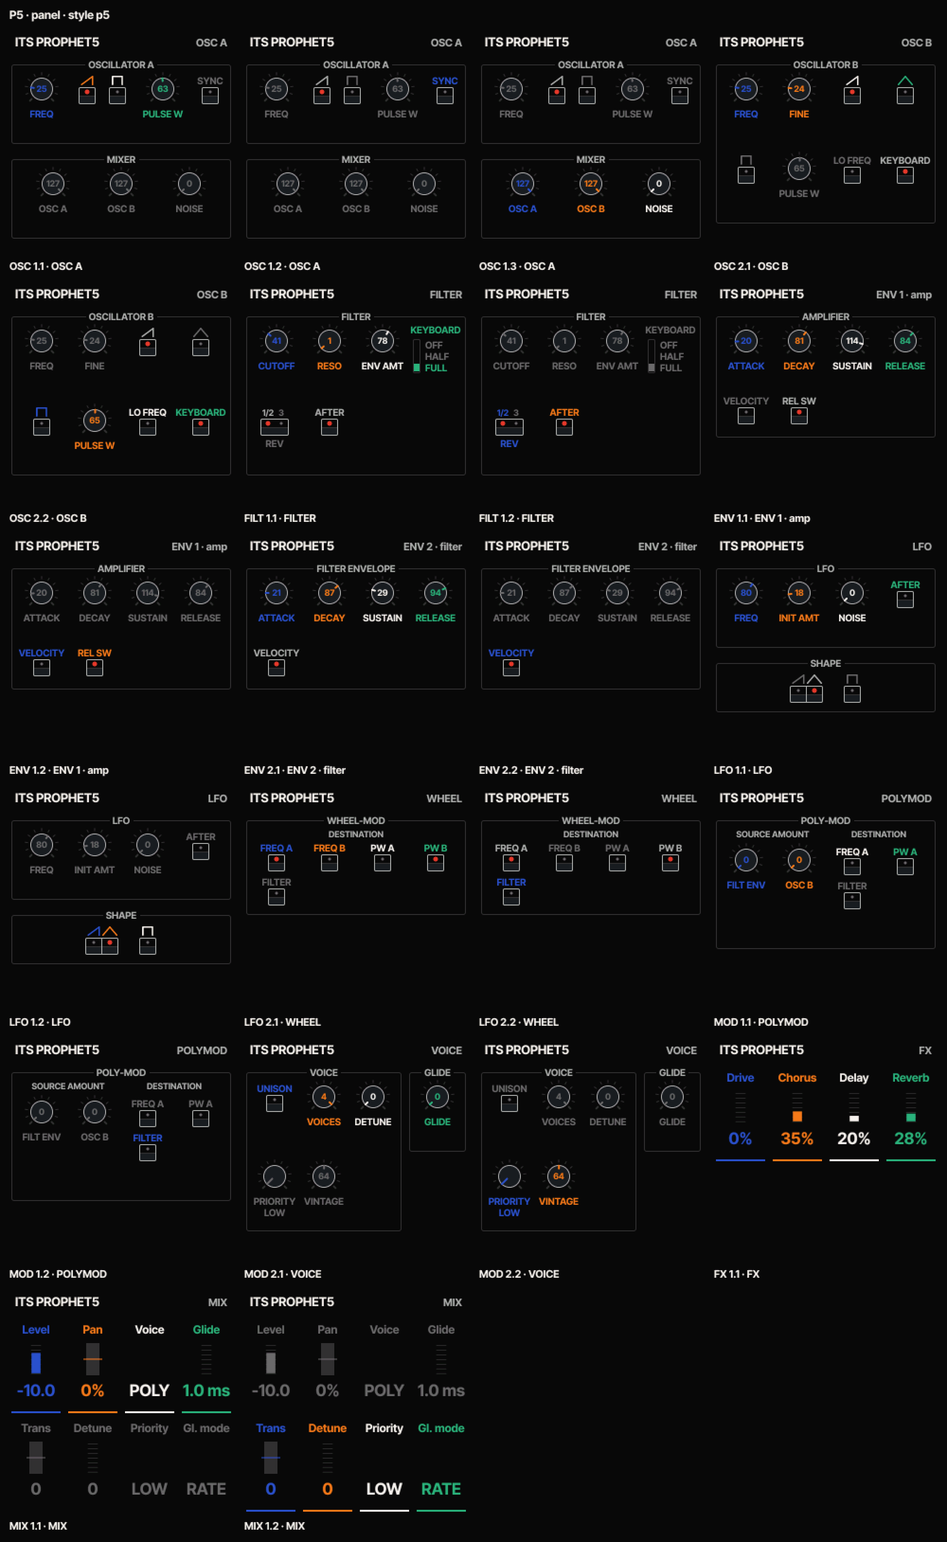
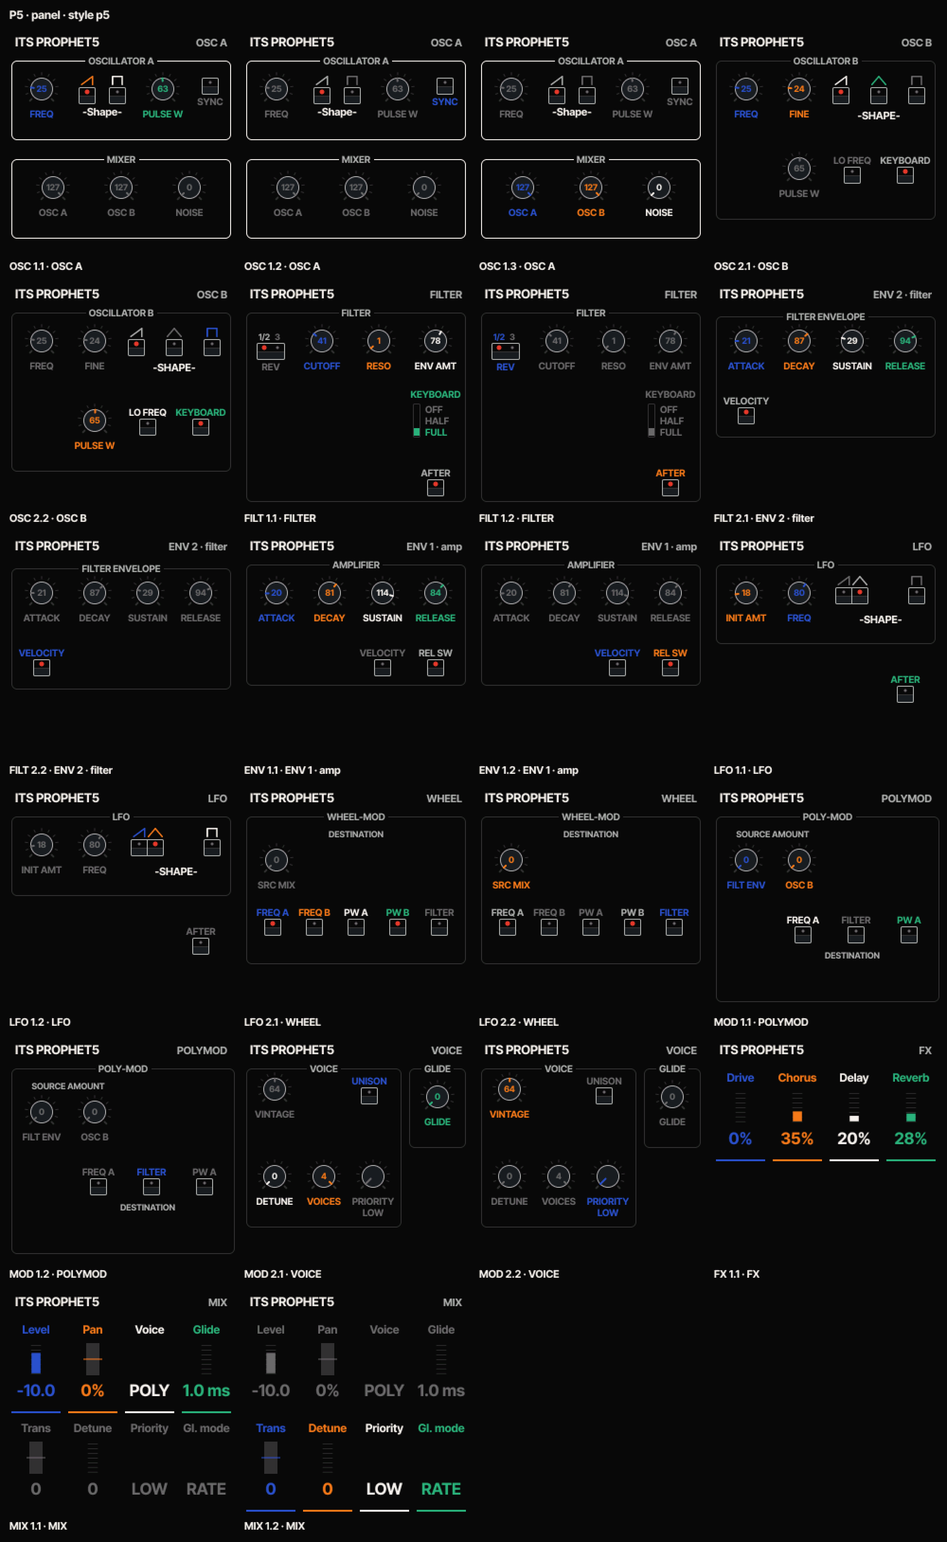
Layout tool: the owner's P5 panel layout; copy / paste between screens, a led's label above or below, frame corners, the wheel-mod source mix
The owner laid the nine screens out himself in the page (ENV 2 under FILT, his frames and labels, VOICE his way);
his design is the file now. He asked: "I need a way to copy/paste elements between pages. Also for buttons like SYNC
on OSC A I need a way to change the label between above(like it is now) and below(How I want it). The prophet's
panel also has rounded edges on it's frames, so I'd like an option to be able to do that too to match. Wheel Mod
also has an option on real prophet for source mix which I added but didn't see a parameter for." Ctrl+C / Ctrl+V
(and copy / paste buttons) carry selected elements to another screen with fresh ids, in no lane, one undo step;
"labelAt": "below" on a led puts its label under the cap (SYNC); "r" 0..12 on a frame (his frames at 6); the source
mix is the engine's LFO:NOISE (the LFO-to-noise mix of the wheel): his SRC MIX knob on WHEEL is bound to it, the LFO
screen's NOISE knob dropped, and the palette says "wheel-mod source mix". The LFO saw / tri pair rejoined (he had
pulled it apart). Lint clean, all 56 parameters once; the sheet rendered again; no firmware file changed.

diff --git a/web/fm1layout.js b/web/fm1layout.js
@@ -295,6 +295,9 @@ export function paramList(cat) {
   return out;
 }
 export const paramIndex = (params) => new Map(params.map((p) => [p.id, p]));
+// what a parameter is on the original instrument when its id does not say (the designer's palette: its search and
+// its second line only)
+export const PARAM_HINTS = { "LFO:NOISE": "wheel-mod source mix" };
 const addrKey = (page, col) => `${page}.${col}`;
 
 // ------------------------------------------------------------ new designs ---
@@ -346,6 +349,24 @@ export function newElement(screen, type, x, y, param = null, style = "flat") {
   return e;
 }
 export const snap = (v) => Math.round(v / GRID) * GRID;
+// copy and paste between screens: elements (copies) onto a screen at their own places, with fresh ids, in no lane; an
+// element that would land exactly on an identical box moves 8 px right and down (again, until free). -> the new elements
+export function pasteElements(screen, clip) {
+  const made = [];
+  let n = screen.elements.length + 1;
+  for (const o of clip) {
+    const e = JSON.parse(JSON.stringify(o));
+    while (screen.elements.some((x) => x.id === `e${n}`)) n++;
+    e.id = `e${n++}`;
+    for (let k = 0; k < 30 && screen.elements.some((x) => x.x === e.x && x.y === e.y && x.w === e.w && x.h === e.h); k++) {
+      e.x = Math.min(e.x + 8, SCREEN - e.w);
+      e.y = Math.min(e.y + 8, SCREEN - e.h);
+    }
+    screen.elements.push(e);
+    made.push(e);
+  }
+  return made;
+}
 
 // ---------------------------------------------------------- the design file ---
 export const formatDesign = (d) => formatLayout(d);
@@ -404,6 +425,8 @@ export function validateDesign(d, cat) {
         if (["x", "y", "w", "h"].some((k) => Number.isInteger(e[k]) && e[k] % GRID)) warn(`${et}: not on the ${GRID} px grid`);
         if (BINDABLE.has(e.type) && e.param !== null && e.param !== undefined && !pidx.has(e.param)) err(`${et}: no parameter "${e.param}"`);
         if (e.type === "switch" && ![2, 3].includes(e.positions)) err(`${et}: a switch has 2 or 3 positions`);
+        if (e.type === "led" && e.labelAt !== undefined && e.labelAt !== "above" && e.labelAt !== "below") err(`${et}: "labelAt" is "above" or "below"`);
+        if (e.type === "frame" && e.r !== undefined && !(Number.isInteger(e.r) && e.r >= 0 && e.r <= 12)) err(`${et}: a frame's corner radius "r" is 0 .. 12`);
         if (e.type === "led" && e.leds !== undefined && ![1, 2].includes(e.leds)) err(`${et}: "leds" is 1 or 2`);
         if (e.type === "led" && e.leds === 2) {
           const lp = pidx.get(e.param);
@@ -570,7 +593,7 @@ export function freeOps(screen, params, value, opts = {}) {
     if (opts.style === "p5" && p5Op(ops, e, { p, val, col, lab, cx, hot, measure, lit: at.get(e.id) && at.get(e.id).lane === active })) continue;
     switch (e.type) {
       case "frame": {
-        ops.push({ op: "rect", x: e.x, y: e.y, w: e.w, h: e.h, col: e.colour && e.colour !== "auto" ? COLOURS[e.colour] : LINE, line: 1 });
+        ops.push({ op: "rect", x: e.x, y: e.y, w: e.w, h: e.h, col: e.colour && e.colour !== "auto" ? COLOURS[e.colour] : LINE, r: e.r || 0, line: 1 });
         if (e.text) {
           const tw = measure(e.text, 10, true);
           ops.push({ op: "rect", x: e.x + 4, y: e.y - 5, w: tw + 6, h: 10, col: BG });
@@ -641,7 +664,7 @@ export function freeOps(screen, params, value, opts = {}) {
 function p5Op(ops, e, { p, val, col, lab, cx, hot, measure, lit }) {
   switch (e.type) {
     case "frame": {
-      ops.push({ op: "rect", x: e.x, y: e.y, w: e.w, h: e.h, col: e.colour && e.colour !== "auto" ? COLOURS[e.colour] : LINE, r: 3, line: 1 });
+      ops.push({ op: "rect", x: e.x, y: e.y, w: e.w, h: e.h, col: e.colour && e.colour !== "auto" ? COLOURS[e.colour] : LINE, r: e.r ?? 3, line: 1 });
       if (e.text) {
         const t = e.text.toUpperCase(), tw = Math.min(measure(t, 10, true), e.w - 12);
         ops.push({ op: "rect", x: cx - (tw >> 1) - 3, y: e.y - 5, w: tw + 6, h: 10, col: BG });
@@ -664,9 +687,15 @@ function p5Op(ops, e, { p, val, col, lab, cx, hot, measure, lit }) {
       return true;
     }
     case "led": {
-      const on = p ? val.v > p.min : false, ink = lit ? col : on ? MID : DIM, y = e.y + 12;
-      // the cap under a 2 px gap, 18 high: a black window (the LEDs') over a 1 px line, the pad under it, the rim; sq:
-      // the corners on one side square (lay_draw_rect r + 64 left, + 128 right: a pair's caps meet as one)
+      // a column: the rows over the cap (the icon, the two LEDs' names, the label when it is above: 12 px each), the cap
+      // (2 px under them, or at the cell's top + 2 with none), the label under it when labelAt is "below" (a two-LED
+      // button's label goes under by default: its names are on top)
+      const on = p ? val.v > p.min : false, ink = lit ? col : on ? MID : DIM, two = e.leds === 2;
+      const icon = !two && e.glyph && LED_GLYPHS[e.glyph], below = e.labelAt ? e.labelAt === "below" : two;
+      const labTop = !!lab && !below && !icon;   // (above, an icon takes the label's place)
+      const rows = (labTop ? 1 : 0) + (icon || two ? 1 : 0), y = rows ? e.y + 12 * rows : e.y + 2;
+      // the cap, 18 high: a black window (the LEDs') over a 1 px line, the pad under it, the rim; sq: the corners on one
+      // side square (lay_draw_rect r + 64 left, + 128 right: a pair's caps meet as one)
       const cap = (x, w, sq = 0) => {
         ops.push({ op: "rect", x, y, w, h: 18, col: SURF, r: 2 + sq });
         ops.push({ op: "rect", x: x + 1, y: y + 1, w: w - 2, h: 8, col: COLOURS.black });
@@ -674,22 +703,25 @@ function p5Op(ops, e, { p, val, col, lab, cx, hot, measure, lit }) {
         ops.push({ op: "rect", x, y, w, h: 18, col: MID, r: 2 + sq, line: 1 });
       };
       const led = (x, lit5, c) => ops.push({ op: "disc", cx16: x * 16, cy16: (y + 5) * 16, r16: lit5 ? 40 : 24, col: lit5 ? c : DIM });   // lit 5 px, off 3 px
-      if (e.leds === 2) {   // one parameter of two values: a wide cap, two LEDs (min red, max yellow), the names above them
+      // one LED; a pair's halves sit flush (the left's cap at its cell's right edge, the right's over the shared rim)
+      const cxL = two ? cx : e.pair === "left" ? e.x + e.w - 9 : e.pair === "right" ? e.x + 8 : cx;
+      const labCol = two ? col : ink;
+      if (labTop) ops.push({ op: "text", bold: 1, px: 10, x: cxL, y: e.y + 9, s: lab, col: labCol, align: 1, maxw: e.w - 2 });
+      const top = e.y + (labTop ? 12 : 0);
+      if (two) {   // one parameter of two values: a wide cap, two LEDs (min red, max yellow), the names above them
         const cur = on ? 1 : 0;
         cap(cx - 15, 30);
         [cx - 7, cx + 7].forEach((x, i) => {
-          ops.push({ op: "text", bold: 1, px: 9, x, y: e.y + 9, s: switchName(e, p, 2, i).toUpperCase(), col: i === cur ? (lit ? col : MID) : DIM, align: 1 });
+          ops.push({ op: "text", bold: 1, px: 9, x, y: top + 9, s: switchName(e, p, 2, i).toUpperCase(), col: i === cur ? (lit ? col : MID) : DIM, align: 1 });
           led(x, i === cur, i ? COLOURS.yellow : RED);
         });
-        if (e.h >= 44 && lab) ops.push({ op: "text", bold: 1, px: 10, x: cx, y: e.y + 42, s: lab, col, align: 1, maxw: e.w - 2 });
-        return true;
+      } else {
+        if (icon) ops.push({ op: "wave", kind: P5_WAVE[e.glyph], x: cxL - 8, y: top, w: 16, h: 10, col: ink });
+        cap(cxL - 9, 18, e.pair === "left" ? 128 : e.pair === "right" ? 64 : 0);
+        led(cxL, on, RED);
       }
-      // one LED; a pair's halves sit flush (the left's cap at its cell's right edge, the right's over the shared rim)
-      const cxL = e.pair === "left" ? e.x + e.w - 9 : e.pair === "right" ? e.x + 8 : cx;
-      if (e.glyph && LED_GLYPHS[e.glyph]) ops.push({ op: "wave", kind: P5_WAVE[e.glyph], x: cxL - 8, y: e.y, w: 16, h: 10, col: ink });
-      else ops.push({ op: "text", bold: 1, px: 10, x: cxL, y: e.y + 9, s: lab, col: ink, align: 1, maxw: e.w - 2 });
-      cap(cxL - 9, 18, e.pair === "left" ? 128 : e.pair === "right" ? 64 : 0);
-      led(cxL, on, RED);
+      if (below && lab && (two || !icon || e.label))
+        ops.push({ op: "text", bold: 1, px: 10, x: cxL, y: y + 29, s: lab, col: labCol, align: 1, maxw: e.w - 2 });
       return true;
     }
     case "switch": {

diff --git a/web/layout.html b/web/layout.html
@@ -289,6 +289,8 @@
             <button data-al="right" title="align the selected: right edges">right &#8677;</button>
             <button data-al="hspace" title="the selected spread evenly, left to right">spread</button>
             <button data-al="dup" title="duplicate the selected (Ctrl+D)">duplicate</button>
+            <button data-al="copy" title="copy the selected (Ctrl+C / Cmd+C), to paste on any screen">copy</button>
+            <button data-al="paste" title="paste the copied elements on this screen at their places, in no lane (Ctrl+V / Cmd+V)">paste</button>
             <button data-al="del" title="delete the selected (Delete)">delete</button>
           </div>
           <div class="knobs" id="d-knobs"></div>
@@ -858,7 +860,9 @@ function dInspector() {
     host.append(field("LEDs", sel(["1", "2"], String(e.leds || 1), (v) => eset((y) => {
       if (v === "2") { y.leds = 2; y.glyph = null; if (ds.design.style === "p5") { y.w = Math.max(y.w, P5_LED2_SIZE[0]); y.h = Math.max(y.h, P5_LED2_SIZE[1]); } } else delete y.leds; }))));
     host.append(field("Pair", sel(["", "left", "right"], e.pair || "", (v) => eset((y) => { if (v) y.pair = v; else delete y.pair; }))));
+    host.append(field("Label at", sel(["above", "below"], e.labelAt || (e.leds === 2 ? "below" : "above"), (v) => eset((y) => { y.labelAt = v; }))));
   }
+  if (e.type === "frame") host.append(field("Corners", sel(["", "0", "2", "4", "6", "8", "10", "12"], e.r === undefined ? "" : String(e.r), (v) => eset((y) => { if (v === "") delete y.r; else y.r = +v; }))));
   if (e.type === "glyph") host.append(field("Glyph", sel(GLYPHS.slice(1), e.glyph, (v) => eset((y) => { y.glyph = v; }))));
   if (e.type === "band") host.append(field("Band", sel(BANDS.slice(1), e.band, (v) => eset((y) => { y.band = v; }))));
   if (e.type === "knob") { const st5 = ds.design.style === "p5" ? "p5" : "flat"; host.append(field("Dial size", sel(KNOB_SIZES[st5].map(String), String(knobSize(e, st5)), (v) => eset((y) => { y.size = +v; })))); }
@@ -878,10 +882,11 @@ function dParams() {
     else s.elements.forEach((e) => e.param && used.add(e.param));
   let last = null, n = 0;
   for (const p of ds.params) {
-    if (q && !`${p.label} ${p.id} ${p.pageTitle}`.toLowerCase().includes(q)) continue;
+    const hint = PARAM_HINTS[p.id] || "";
+    if (q && !`${p.label} ${p.id} ${p.pageTitle} ${hint}`.toLowerCase().includes(q)) continue;
     if (p.pageTitle !== last) { host.append(el("h4", { text: p.pageTitle })); last = p.pageTitle; }
     const d = el("div", { class: "p" + (used.has(p.id) ? " used" : ""), "data-param": p.id, title: `${p.id}: ${p.min} .. ${p.max} (${p.fmt}). Drag onto a slot or an element; click to bind the selection` },
-      el("span", { text: p.label }), el("small", { text: p.short }));
+      el("span", { text: p.label }), el("small", { text: hint ? `${p.short} (${hint})` : p.short }));
     d.addEventListener("pointerdown", (ev) => startDrag(ev, { kind: "param", id: p.id, text: p.label }));
     host.append(d);
     n++;
@@ -997,6 +1002,7 @@ function dPalette() {
   }
 }
 function alignSel(how) {
+  if (how === "copy" || how === "paste") return clipboard(how);
   const s = curScreen();
   if (!s || s.type !== "free" || !ds.sel.size) return;
   const ids = [...ds.sel];
@@ -1018,6 +1024,25 @@ function alignSel(how) {
     }
   });
 }
+// copy: the selected elements into the page's clipboard (and the system's as JSON text when it lets us; no error if not);
+// paste: onto the current free screen at their places (pasteElements: fresh ids, no lane), one undo step
+function clipboard(how) {
+  const s = curScreen();
+  if (!s || s.type !== "free") { if (how === "paste") dmsg("Elements are pasted on a free screen.", true); return; }
+  if (how === "copy") {
+    if (!ds.sel.size) return;
+    ds.clip = JSON.parse(JSON.stringify(s.elements.filter((e) => ds.sel.has(e.id))));
+    try { if (navigator.clipboard) navigator.clipboard.writeText(JSON.stringify({ "choralroot-elements": ds.clip })).catch(() => {}); } catch (e) { /* not allowed: the page's own clipboard is enough */ }
+    dmsg(`${ds.clip.length} element(s) copied: open a screen and paste (Ctrl+V).`);
+    return;
+  }
+  if (!ds.clip || !ds.clip.length) { dmsg("Nothing copied yet: select elements and copy (Ctrl+C).", true); return; }
+  let made = [];
+  commit((d) => { made = pasteElements(d.groups[ds.gi].screens[ds.si], ds.clip).map((e) => e.id); });
+  ds.sel = new Set(made);
+  dmsg(`${made.length} element(s) pasted, in no lane: put them in lanes and rebind as needed.`);
+  dRender();
+}
 document.addEventListener("keydown", (ev) => {
   if (st.mode !== "design" || !ds.design) return;
   if (ev.target.closest && ev.target.closest("input, select, textarea, .dial")) return;
@@ -1028,6 +1053,8 @@ document.addEventListener("keydown", (ev) => {
   if (!s || s.type !== "free") return;
   if (mod && ev.key.toLowerCase() === "a") { ev.preventDefault(); ds.sel = new Set(s.elements.map((e) => e.id)); dRender(); return; }
   if (mod && ev.key.toLowerCase() === "d") { ev.preventDefault(); alignSel("dup"); return; }
+  if (mod && ev.key.toLowerCase() === "c" && ds.sel.size) { ev.preventDefault(); clipboard("copy"); return; }
+  if (mod && ev.key.toLowerCase() === "v") { ev.preventDefault(); clipboard("paste"); return; }
   if (!ds.sel.size) return;
   if (ev.key === "Delete" || ev.key === "Backspace") { ev.preventDefault(); alignSel("del"); return; }
   const step = ev.shiftKey ? 16 : GRID, mv = { ArrowLeft: [-step, 0], ArrowRight: [step, 0], ArrowUp: [0, -step], ArrowDown: [0, step] }[ev.key];
@@ -1206,6 +1233,18 @@ async function selftestDesign() {
   const k5 = Object.keys(shipped).find((x) => /p5-panel/.test(x));                                // 7: the p5-style panel
   res.push(!!k5 && dOpen(JSON.parse(JSON.stringify(shipped[k5])), "the shipped design") && $("d-style").value === "p5" &&
            curScreen().type === "free" && ds.last && ds.last.ops.some((o) => o.op === "p5knob") && inkCount(px()) > 500);
+  {                                                                                              // 8: copy, paste on another screen
+    const src = curScreen().elements.find((e) => e.type === "knob"), u0 = ds.undo.length;
+    ds.sel = new Set([src.id]);
+    clipboard("copy");
+    const g2 = ds.design.groups.findIndex((g, i) => i !== ds.gi && g.screens.some((s) => s.type === "free"));
+    dGo(g2, ds.design.groups[g2].screens.findIndex((s) => s.type === "free"));
+    const ids0 = new Set(curScreen().elements.map((e) => e.id));
+    clipboard("paste");
+    const ex = JSON.parse(exportText()).groups[ds.gi].screens[ds.si].elements, got = ex.find((e) => !ids0.has(e.id));
+    res.push(!!got && got.param === src.param && got.type === "knob" && got.id !== src.id && ds.undo.length === u0 + 1 &&
+             ds.sel.has(got.id) && !curScreen().lanes.some((l) => l.includes(got.id)));
+  }
   const host = $("selftest");
   host.hidden = false;
   host.dataset.result = res.map((r) => (r ? 1 : 0)).join("");

diff --git a/docs/LAYOUT-TOOL.md b/docs/LAYOUT-TOOL.md
@@ -78,7 +78,11 @@ exported as a file.
   title says why). Over a free screen an editing layer on the 4 px grid: drag an element from the strip above the
   screen (frame, label, knob, switch, led, bar, glyph, band) onto it; click to select, Shift+click to add, drag to
   move, the yellow corner to resize; arrows nudge 4 px (Shift 16); Delete; Ctrl+D duplicates, Ctrl+A selects all;
-  align left / top / right, spread. Each element in a lane wears its "lane·knob" tag in the knob's colour.
+  align left / top / right, spread. **Copy and paste between screens**: Ctrl+C / Cmd+C (or *copy*) keeps the
+  selected elements in the page's clipboard (and puts them on the system's as JSON text when the browser lets it);
+  Ctrl+V / Cmd+V (or *paste*) puts them on the current free screen at their places (8 px off where an identical box
+  is already), with new ids, everything else kept (the parameter too: the lint then says it is twice, for you to
+  rebind), selected and in no lane, one undo step (`pasteElements`). The shortcuts do nothing while typing. Each element in a lane wears its "lane·knob" tag in the knob's colour.
 - **Lanes**: four coloured slots a lane (KNOB 1..4); SELECT moves between lanes. On a free screen select an element,
   then click a slot (it leaves any other slot); on a classic screen drag a parameter onto a slot, or click the slot
   and pick it in the inspector. Lanes can be added (up to 8), moved up, deleted; a classic lane has its title.
@@ -217,8 +221,10 @@ interface." and "I'd like update glyph designs to match with the Prophet 5 knobs
 Designer pages first." `"style": "p5"` composes a free screen's elements as the Prophet-5's panel (`freeOps` →
 `p5Op`, drawn by the same primitives; the classic screens and the other elements are unchanged):
 
-- **frame**: a rounded outline (r 3, 1 px, `line` or its colour), its text in capitals, 10 px bold `mid`, centred in
-  the top border on a `bg` block, the border showing either side: the panel's section titles.
+- **frame**: a rounded outline (`r`, default 3; 1 px, `line` or its colour), its text in capitals, 10 px bold `mid`,
+  centred in the top border on a `bg` block, the border showing either side: the panel's section titles. A frame's
+  `r` (0 .. 12; the inspector's *Corners*, 0 .. 12 in steps of 2) rounds it in either style (flat: square without);
+  the owner's panel uses 6.
 - **knob**: the dial box (`size`, default 36; 28 .. 44) at the cell's top: a printed scale of 11 ticks (0..10) over the
   270 degrees at the box's edge (`line`, the end ticks 2 px), a face of radius size / 2 - 6 in `surf` with a `mid` rim,
   a 2 px pointer in the element's colour (the lane's knob colour when its lane is active, else `dim`). The value (the
@@ -244,13 +250,22 @@ Designer pages first." `"style": "p5"` composes a free screen's elements as the 
   icon over its own LED: the LFO's saw | triangle button. The inspector has LEDs (1, 2) and Pair selects. The owner:
   "Good except some buttons don't have the waveform centered, example photo. The prophet also has some buttons with 2
   LEDS: Filter REV; LFO Shape; Sample And Hold LFO." (P5 has no sample-and-hold LFO parameter: no such button.)
+  **The label above or below** (`"labelAt"`, the inspector's *Label at*): above (the default; a two-LED button's
+  default is below, its names being on top) or below: the cap moves up (to the cell's top + 2, or under the icon or
+  the names) and the label is printed under it, 10 px bold, centred. With a glyph the icon stays on top and only an
+  explicit label goes under. OSC A's SYNC is so, as the owner asked.
 - **switch**: the label on top, a slot (8 px wide, 12 px a position, rounded `line` outline) with a 6 x 8 lever in the
   element's colour at the current position, the positions' names beside it (the current one in the element's colour).
 - label, bar, glyph and band as flat.
 
 `design/layouts/designs/p5-panel.json` is P5's whole engine in that style: nine free screens over OSC .. MOD (OSC A with
 the mixer, OSC B, FILTER, AMPLIFIER, FILTER ENVELOPE, LFO with its SHAPE, WHEEL-MOD, POLY-MOD, VOICE with GLIDE), all 56
-parameters placed once, KNOB 1..4 a lane, FX and MIX classic as today; every screen x lane lint clean. Its contact
+parameters placed once, KNOB 1..4 a lane, FX and MIX classic as today; every screen x lane lint clean. Since
+2026-10-15 it is the owner's own (edited in the page: ENV 2 in FILT, his frames' titles, SHAPE labels, VOICE
+rearranged), with frames of r 6. The wheel-mod's SOURCE MIX is `LFO:NOISE`: P5's LFO noise amount IS the Prophet's
+wheel-mod source mix (LFO to noise; docs/PROPHET.md, the LFO page "Noise (its mix)"), so the WHEEL screen's "SRC MIX"
+knob is bound to it and the LFO screen has no NOISE knob; the palette shows it with the hint "(wheel-mod source mix)"
+(`PARAM_HINTS`). Its contact
 sheet, `design/choralroot-fm1-p5-panel-screens.png`, is made by
 
 ```
@@ -431,11 +446,14 @@ design, and the per-engine table that says which patch parameter a (page, column
   knob's value text inside its dial, a lit led's dot the firmware's red, a saw led's one-cycle icon drawn over its cap
   and the cap's window darker than its pad, every wave icon's ink centred over its LED within 1 px, REV's two LEDs
   (yellow at 3, red at 1/2), a pair's caps touching; `validateDesign` refuses two LEDs on a 0..127 parameter and warns
-  on a pair that does not touch;
+  on a pair that does not touch; SYNC's label (labelAt below) under its cap; a frame at r 12 leaves its corner pixel
+  the background (r 13 refused); the source mix bound once, on WHEEL, in a lane, with its hint; `pasteElements` (new
+  ids, no lane, 8 px off an identical box, the parameter then twice);
 - the page in Design mode (`?selftest=design`): the shipped example opens, a free screen is drawn and marked, a knob
   turns a dial, **a scripted pointer drag from the element strip adds a knob on the grid**, the export equals the
   model and validates, the contact sheet has today's and the design's tiles, the shipped p5 panel opens in the p5
-  style and draws its knobs.
+  style and draws its knobs, a copied element pasted on another screen is in the export with a new id, selected, in
+  no lane, one undo step.
 
 `?demo=osc|classic|sheet` opens the places the screenshots show. Not tested: the wheel handler, moving and resizing
 by drag, the keyboard shortcuts, import, the downloads (Export / PNG write a file the test does not read), the

diff --git a/docs/HISTORY.md b/docs/HISTORY.md
@@ -3021,7 +3021,17 @@ FILTER's REV, which was a lever; two leds may pair (`"pair"`) into one wide cap 
 triangle beside the single square (`lay_draw_rect`'s r + 64 / + 128 square a cap's inner corners); OSC B's LO FREQ and
 KEYBOARD are buttons now (FILTER's three-position KEYBOARD stays a lever). P5 has no sample-and-hold LFO parameter, so
 no such button. Tests: the icons centred within 1 px, REV yellow at 3 and red at 1/2, the pair's caps touching,
-`validateDesign` refusing two LEDs on a 0..127 parameter and warning on a pair apart. The device image is byte-identical by construction:
+`validateDesign` refusing two LEDs on a 0..127 parameter and warning on a pair apart. **Then the owner's own panel (2026-10-15)**: he
+edited `p5-panel.json` in the page (ENV 2 into FILT, his frame titles, SHAPE labels, VOICE rearranged, an unbound SRC
+MIX knob on WHEEL) and asked: "I need a way to copy/paste elements between pages. Also for buttons like SYNC on OSC A I
+need a way to change the label between above(like it is now) and below(How I want it). The prophet's panel also has
+rounded edges on it's frames, so I'd like an option to be able to do that too to match. Wheel Mod also has an option on
+real prophet for source mix which I added but didn't see a parameter for." His design is kept; the page copies and
+pastes elements between screens (Ctrl+C / Ctrl+V, copy / paste buttons: new ids, no lane, one undo step); a led's
+`labelAt` puts its label under the cap (his SYNC); a frame's `r` (0 .. 12) rounds it (his frames r 6); the source mix
+is P5's `LFO:NOISE` (the LFO noise amount is the wheel-mod's source mix), now on his SRC MIX knob in WHEEL's lane 2 and
+off the LFO screen, with a palette hint. Two moves to make his file pass: the LFO's TRI back against SAW (x 168 → 148)
+so the pair is one cap again, and the LFO's NOISE knob removed. The device image is byte-identical by construction:
 `git diff --stat` shows no file under `firmware/` (tools, web, design and docs only). Not done: the firmware cannot
 draw free pages yet, so every p5 screen is "not buildable yet"; the composition is the tool's proposal, which the
 firmware will copy when it gets free pages. Nothing on a unit.
